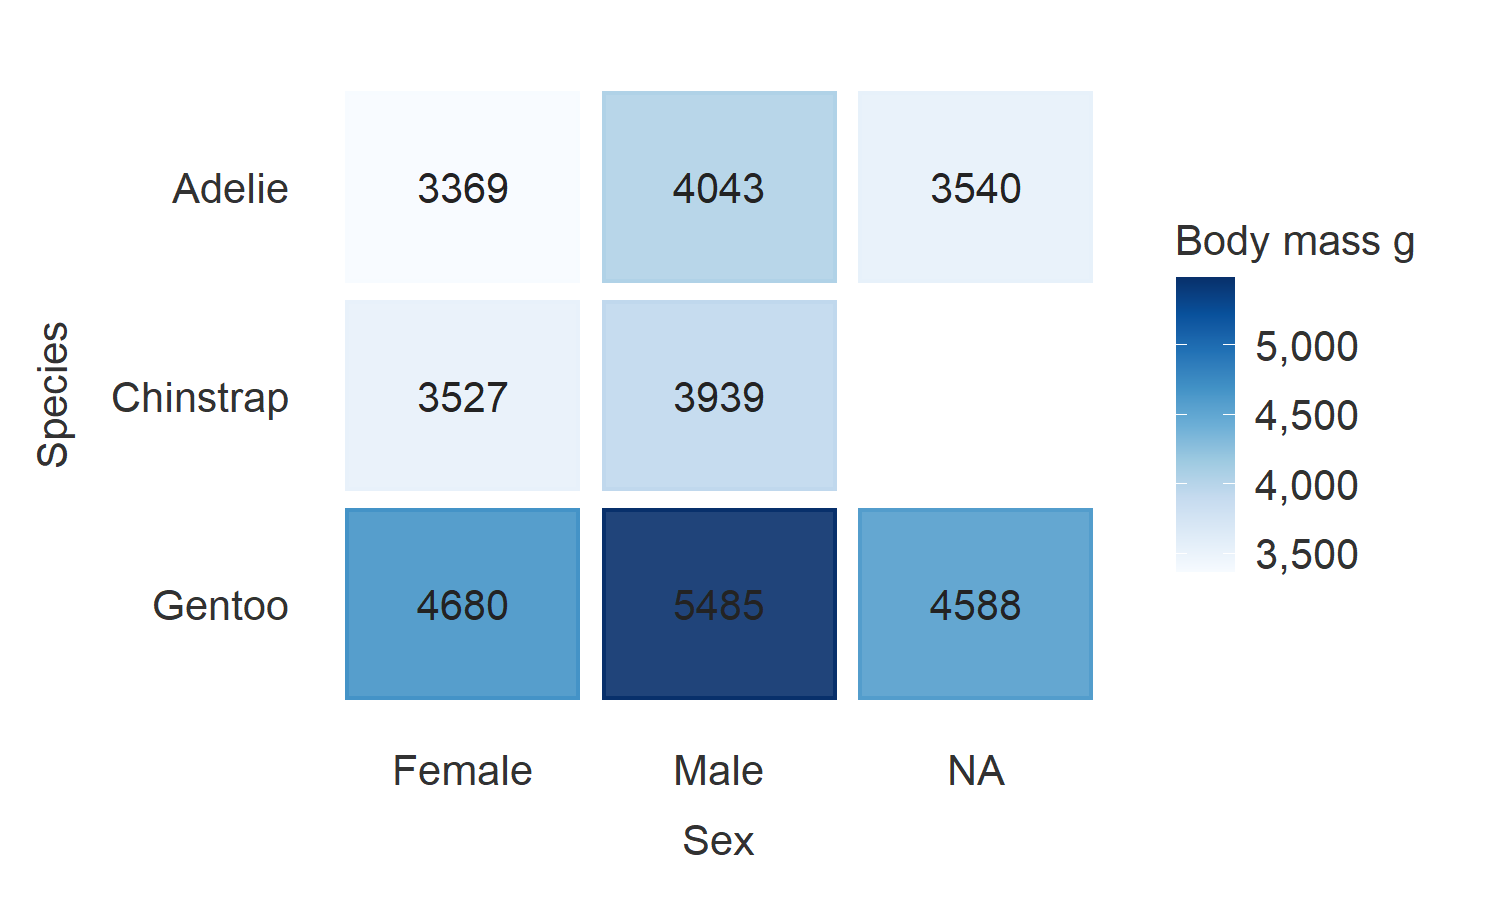
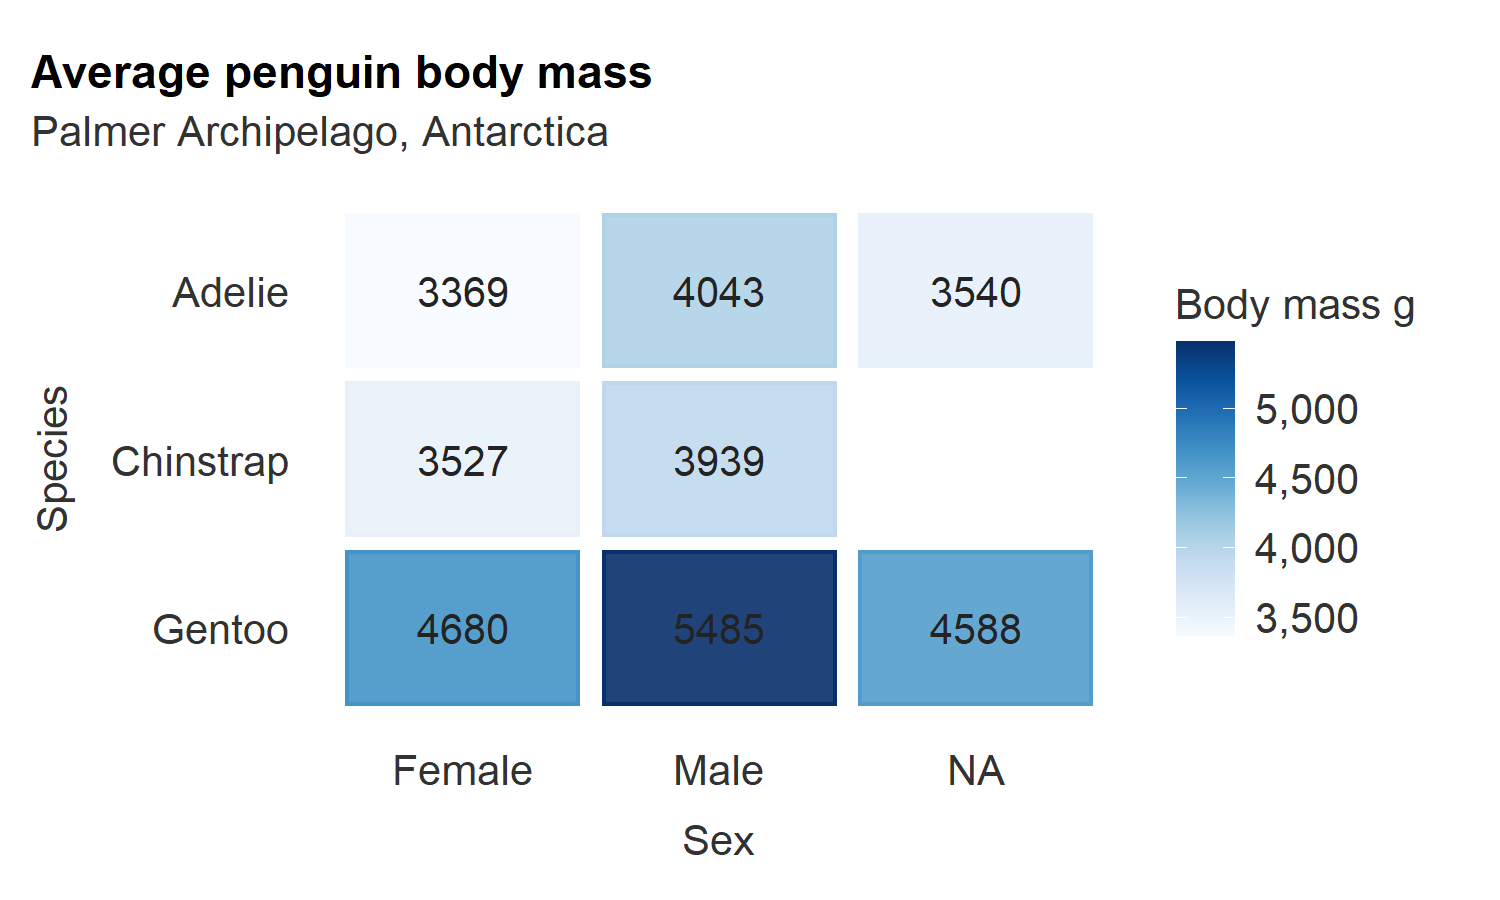
Update

diff --git a/README.md b/README.md
@@ -186,7 +186,10 @@ penguins %>%
           titles = to_sentence_case,
           x_labels = to_sentence_case,
           pal = pals::brewer.blues(9),
-          width = 0.9, height = 0.9, 
+          width = 0.9, 
+          height = 0.9, 
+          title = "Average penguin body mass",
+          subtitle = "Palmer Archipelago, Antarctica",
           theme = gg_theme(pal_axis = "#ffffff", pal_ticks = "#ffffff")) +
   geom_text(aes(label = body_mass_g), size = 3.5, col = "#232323") 
 ```
